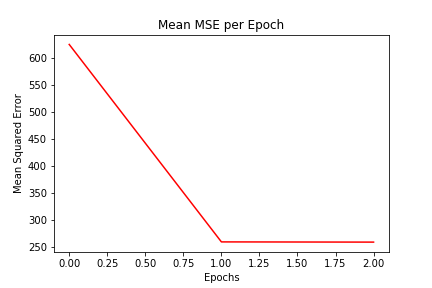
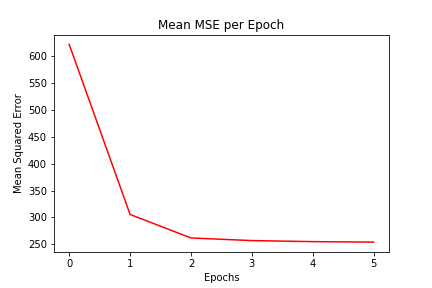
Readability

diff --git a/driver.py b/driver.py
@@ -30,13 +30,28 @@ alphaDim=11
 #Standard deviation of added noise 
 noiseStdDev=25
 
-#Retrive randomly generated piecewise constant Signals 
+#Retrive randomly generated piecewise constant signals (x is original, y is noisy)
 (x,y)=createSteps(numberExamples,signalLength,maxValue,noiseStdDev)
 
+##W and alpha Initalization 
+    
+W=np.ones((signalLength,signalLength))*.00001
+#W=np.zeros((N,N))
+for i in range(signalLength):
+    if i==0:
+        W[i,i]=1
+    else:
+        np.fill_diagonal(W,1)
+        W[i,i-1]=-1
+
+alpha=np.ones(alphaDim)*.75
+#Approximate optimized values of alpha when SGD on it
+#alpha=np.array([3.86,8.08,12.05,9.9,3.47,.48,-2.54,-8.667,-10.63,-6.75,-2.4], dtype=np.float)              
+                  
+
+
 #Run the Stochastic Gradient Descent Algorithm
-(alpha, W, errorEpoch,errorSample,alphaHistory,WHistory,learningRates,savedAlphaGrads,savedWGrads)=multiSGDthres(x,y,alphaDim)
-
-
+(alpha, W, errorEpoch,errorSample,alphaHistory,WHistory,learningRates,savedAlphaGrads,savedWGrads)=multiSGDthres(x,y,alpha,W)
 
 
 
@@ -111,9 +126,11 @@ plt.show()
 #Calculate sum of function evaluation estimates w.r.t. epochs
 estimateSum=np.zeros(EPOCH)
 WSum=np.zeros(EPOCH)
+alphaSum=np.zeros(EPOCH)
 for i in range(EPOCH):
     estimateSum[i]=sum(np.abs(y[:,signal]+np.dot(np.transpose(WHistory[i]),np.dot(rbfF(np.dot(WHistory[i],y[:,signal]),alphaDim),alphaHistory[i])))) 
     WSum[i]=sum(sum(np.abs(WHistory[i])))
+    alphaSum[i]=sum(sum(np.abs(alphaHistory[i])))
 
 # Absolute Sums of predicted and actual signals 
 plt.figure(5)
@@ -137,10 +154,20 @@ plt.savefig('Wsum')
 plt.show
 
 
+# Absolute sums of alpha w.r.t. epochs
+plt.figure(7)
+plt.plot(iteratorEpochs,alphaSum,'b',label='Sum of alpha')
+plt.title("Sum of alpha")
+plt.legend(bbox_to_anchor=(.24, .89), loc=0, borderaxespad=0.)
+plt.ylabel('Sum')
+plt.xlabel('Iteration')
+plt.savefig('alphaSum')
+plt.show
+
 
 
 # Original, noisy, and predicted signals 
-plt.figure(7)
+plt.figure(8)
 plt.title("Original, Noisy and Predicted Values for Signal: " +str(signal+1))
 plt.plot(iteratorN,x[:,signal],'r',label='Original Signal')
 plt.plot(iteratorN,y[:,signal],'b',label='Noisy Signal (sigma=25)')

diff --git a/SGD.py b/SGD.py
@@ -8,34 +8,17 @@ from estimateSignal import estimateSignal
 
 
 
-def multiSGDthres(x,y,alphaDim): 
+def multiSGDthres(x,y,alpha,W): 
 ##Recover variable dimensions
-    N=x.shape[0]
     samples=x.shape[1]
     maxSamples=np.arange(samples)
-    
 ## Initializations 
 
     #Learning Rates
     learningRateAlpha=.0001
-    learningRateW=.00000001     
+    learningRateW=.0000001     
     
-    
-    ##W and alpha Initalization 
-    
-    #W=np.ones((N,N))*.00001
-    W=np.zeros((N,N))
-    for i in range(N):
-        if i==0:
-            W[i,i]=1
-        else:
-            np.fill_diagonal(W,1)
-            W[i,i-1]=-1
 
-    #alpha=np.ones(alphaDim)*.75
-    #Approximate optimized values of alpha when SGD on it
-    alpha=np.array([3.86,8.08,12.05,9.9,3.47,.48,-2.54,-8.667,-10.63,-6.75,-2.4], dtype=np.float)              
-                  
     # Function error difference between consecutive epochs (initialization is arbitrary)
     functionError=1
     
